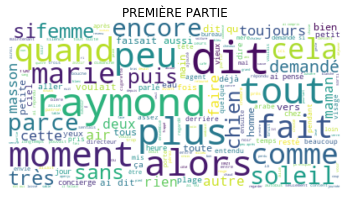
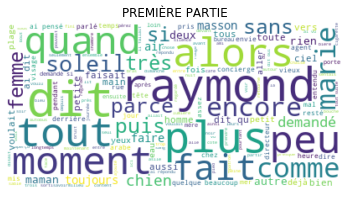
add stopwords

diff --git a/word_cloud.py b/word_cloud.py
@@ -39,22 +39,6 @@ def splitParts(text):
             end2 = index - 5 
             break
     return [' '.join(tokens[beg1:end1]), ' '.join(tokens[beg2:end2]) ]
-
-def splitParagraphs(text):
-    ''' \n is a line break as read (not new paragraph), so should be kept together;
-    \n\n is a new paragraph, so will be used as splitting indicator;
-    \n\n\n is a page break in the book (not new paragraph), so should be together '''
-    text = text.replace('\n\n\n', ' ') # connect the page break as entire text
-    textList = []
-    beg_index = 1
-    for char in range(len(text) - 2):
-        if text[char] == '\n' and text[char+1] == '\n':
-            end_index = char
-            textList.append(text[beg_index:end_index])
-            beg_index = char + 2
-        if beg_index > len(text):
-            break        
-    return textList # total of 221 paragraphs in the book
     
 def processText(text):
     ''' text is a string type, make all characters lowercase, 
@@ -85,16 +69,19 @@ def wordcloudFromOneWord():
         [part1, part2] = splitParts(text)
     [part1processed, part2processed] = [processText(part1), processText(part2)]    
     [cloudtext1, cloudtext2] = [removeWords(part1processed), removeWords(part2processed)]
-    ''' create word clouds, separate between two parts '''
+    ''' create word clouds generator '''
     arrêt = set(nltk.corpus.stopwords.words('french')) # 'stopwords' en français
-    cloud1 = WordCloud(background_color = "white", max_words = 200, stopwords = arrêt).generate(cloudtext1)
+    arrêt = arrêt.union({'avoir', 'être', 'ça', 'cela', 'cet', 'cette'})
+    cloud = WordCloud(background_color = "white", max_words = 200, stopwords = arrêt)
+    ''' separate word clouds between two parts'''
+    cloud1 = cloud.generate(cloudtext1)
     part1 = cloud1.to_array()
     plt.figure()
     plt.title("PREMIÈRE PARTIE")
     plt.imshow(part1, interpolation="bilinear")
     plt.axis("off")
     plt.show()
-    cloud2 = WordCloud(background_color = "white", max_words = 200, stopwords = arrêt).generate(cloudtext2)
+    cloud2 = cloud.generate(cloudtext2)
     part2 = cloud2.to_array()
     plt.figure()
     plt.title("DEUXIÈME PARTIE")

diff --git a/README.md b/README.md
@@ -13,7 +13,7 @@ The book in original language (French) was downloaded from this [website](http:/
 Some of the **natural language processing** techniques were employed to create the word clouds. This includes:
 - text mining and re-constructing paragraphs
 - making lowercase text and removing non-alphabets/punctuations
-- removing **"stop words"** (in french)
+- removing **"stop words"** (in french); the stop word set covers pronouns e.g. "je", "y", "lui", prepositions e.g. "à", "avec", "de", parts of speech of the verbes "avoir" and "être", articles e.g. "le", "l'".
 - tokenizing words from string
 
 To build word clouds, an opensource package is used. See resource section at the end.
@@ -22,7 +22,7 @@ To build word clouds, an opensource package is used. See resource section at the
 
 The total numbers of words used for generating two word clouds were almost equal. As shown in the below figures, the first thing that stood out from the two word clouds are their general patterns. In the first part, the frequencies of extracted words are quite balanced. On the contrary, in the second part, some words were definitely more used that the others. These outstanding words are adjectives/adverbes that might strengthen the feelings in the story; for example, "plus", "tout", "bien", etc.
 
-There are both similarites and differences in outstanding words from the two word clouds. The common words that remained with some moderate frequencies in both parts (they were not stop words because they may provide sentiment or are part of conversations) are such as "très", "encore", "fait", "dit", "demandé", "comme", and "cela". However, the observable word differences between the two parts were the other characters' names and mundane things in part 1 that are fewer mentioned in part 2. These words in part 1 are "raymond", "marie", "maman", "chien", "femme" and "soleil". Meanwhile, the character "avocat" became more important in part 2. Other negation terms like "rien" and "jamais" also started to appear in part 2.
+There are both similarites and differences in outstanding words from the two word clouds. The common words that remained with some moderate frequencies in both parts (they were not stop words because they may provide sentiment or are part of conversations) are such as "très", "encore", "fait", "dit", "demandé" and "comme". However, the observable word differences between the two parts were the other characters' names and mundane things in part 1 that are fewer mentioned in part 2. These words in part 1 are "raymond", "marie", "maman", "chien", "femme" and "soleil". Meanwhile, the character "avocat" became more important in part 2. Other negation terms like "rien" and "jamais" also started to appear in part 2.
 
 Overall, the story in part 2 might present more degree of emotions whereas the story in part 1 were rather indifferent.
 
